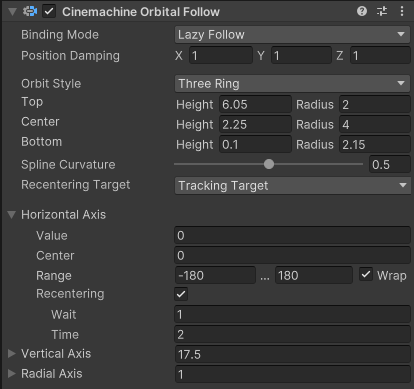
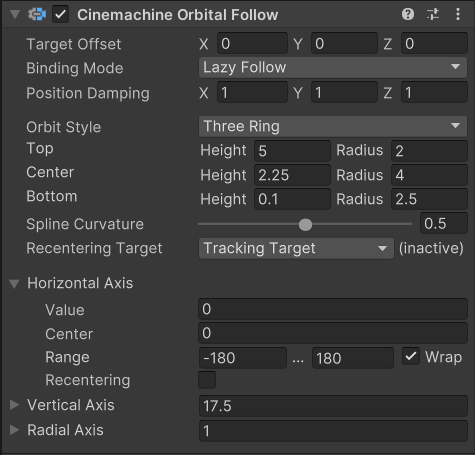
Add orbitalFollow.TargetOffset

diff --git a/com.unity.cinemachine/Editor/Editors/CinemachineOrbitalFollowEditor.cs b/com.unity.cinemachine/Editor/Editors/CinemachineOrbitalFollowEditor.cs
@@ -27,6 +27,7 @@ namespace Unity.Cinemachine.Editor
         {
             var ux = new VisualElement();
             this.AddMissingCmCameraHelpBox(ux, CmPipelineComponentInspectorUtility.RequiredTargets.Tracking);
+            ux.Add(new PropertyField(serializedObject.FindProperty(() => Target.TargetOffset)));
             ux.Add(new PropertyField(serializedObject.FindProperty(() => Target.TrackerSettings)));
             ux.AddSpace();
 
@@ -93,7 +94,7 @@ namespace Unity.Cinemachine.Editor
                         var camPos = orbitalFollow.VcamState.RawPosition;
                         var camTransform = orbitalFollow.VirtualCamera.transform;
                         var camRight = camTransform.right;
-                        var followPos = orbitalFollow.FollowTargetPosition;
+                        var followPos = orbitalFollow.TrackedPoint;
                         var handlePos = followPos + camRight * orbitalFollow.Radius;
                         var rHandleId = GUIUtility.GetControlID(FocusType.Passive);
                         var newHandlePosition = Handles.Slider(rHandleId, handlePos, -camRight,
@@ -133,7 +134,8 @@ namespace Unity.Cinemachine.Editor
                         
                         var draggedRig = CinemachineSceneToolHelpers.ThreeOrbitRigHandle(
                             orbitalFollow.VirtualCamera, orbitalFollow.GetReferenceOrientation(),
-                            new SerializedObject(orbitalFollow).FindProperty(() => orbitalFollow.Orbits));
+                            new SerializedObject(orbitalFollow).FindProperty(() => orbitalFollow.Orbits),
+                            orbitalFollow.TrackedPoint);
                         m_UpdateCache = draggedRig < 0 || draggedRig > 2;
                         orbitalFollow.VerticalAxis.Value = draggedRig switch
                         {
@@ -166,7 +168,7 @@ namespace Unity.Cinemachine.Editor
                 var color = CinemachineCore.IsLive(vcam)
                     ? CinemachineCorePrefs.BoundaryObjectGizmoColour.Value
                     : CinemachineCorePrefs.InactiveGizmoColour.Value;
-                var targetPos = orbital.FollowTargetPosition;
+                var targetPos = orbital.TrackedPoint;
                 var orient = orbital.GetReferenceOrientation();
                 var up = orient * Vector3.up;
                 var rotation = orbital.HorizontalAxis.Value;

diff --git a/com.unity.cinemachine/Runtime/Components/CinemachineOrbitalFollow.cs b/com.unity.cinemachine/Runtime/Components/CinemachineOrbitalFollow.cs
@@ -21,6 +21,13 @@ namespace Unity.Cinemachine
         , CinemachineFreeLookModifier.IModifiablePositionDamping
         , CinemachineFreeLookModifier.IModifiableDistance
     {
+        /// <summary>Offset from the object's center in local space.  
+        /// Use this to fine-tune the orbit when the desired focus of the orbit is not 
+        /// the tracked object's center</summary>
+        [Tooltip("Offset from the target object's center in target-local space. Use this to fine-tune the "
+            + "orbit when the desired focus of the orbit is not the tracked object's center.")]
+        public Vector3 TargetOffset;
+
         /// <summary>Settings to control damping for target tracking.</summary>
         public TrackerSettings TrackerSettings = TrackerSettings.Default;
 
@@ -104,7 +111,10 @@ namespace Unity.Cinemachine
         /// Input axis controller registers here a delegate to call when the camera is reset
         /// </summary>
         Action m_ResetHandler;
-        
+
+        /// <summary>Internal API for inspector</summary>
+        internal Vector3 TrackedPoint { get; private set; }
+
         void OnValidate()
         {
             Radius = Mathf.Max(0, Radius);
@@ -118,6 +128,7 @@ namespace Unity.Cinemachine
 
         void Reset()
         {
+            TargetOffset = Vector3.zero;
             TrackerSettings = TrackerSettings.Default;
             OrbitStyle = OrbitStyles.Sphere;
             Radius = 10;
@@ -243,7 +254,7 @@ namespace Unity.Cinemachine
             m_ResetHandler?.Invoke(); // cancel re-centering
             if (FollowTarget != null)
             {
-                var dir = pos - FollowTargetPosition;
+                var dir = pos - FollowTarget.TransformPoint(TargetOffset);
                 var distance = dir.magnitude;
                 if (distance > 0.001f)
                 {
@@ -413,6 +424,8 @@ namespace Unity.Cinemachine
             pos += m_TargetTracker.GetOffsetForMinimumTargetDistance(
                 this, pos, offset, curState.RawOrientation * Vector3.forward,
                 curState.ReferenceUp, targetPosition);
+            pos += orient * TargetOffset;
+            TrackedPoint = pos;
             curState.RawPosition = pos + offset;
 
             if (deltaTime >= 0 && VirtualCamera.PreviousStateIsValid

diff --git a/com.unity.cinemachine/Editor/Utility/CinemachineSceneTools.cs b/com.unity.cinemachine/Editor/Utility/CinemachineSceneTools.cs
@@ -493,12 +493,12 @@ namespace Unity.Cinemachine.Editor
         /// </summary>
         /// <returns>Index of the rig being edited, or -1 if none</returns>
         public static int ThreeOrbitRigHandle(
-            CinemachineVirtualCameraBase vcam, Quaternion rotationFrame, SerializedProperty orbitSetting)
+            CinemachineVirtualCameraBase vcam, Quaternion rotationFrame, 
+            SerializedProperty orbitSetting, Vector3 orbitCenter)
         {
             Cinemachine3OrbitRig.Settings def = new();
 
             var originalColor = Handles.color;
-            var followPos = vcam.Follow.position;
             var draggedRig = -1;
             var minIndex = 1;
             SerializedProperty[] orbits =
@@ -515,7 +515,7 @@ namespace Unity.Cinemachine.Editor
                 
                 if (OrbitHandles(
                     orbitSetting.serializedObject, orbitHeight, orbitRadius, 
-                    followPos, rotationFrame,
+                    orbitCenter, rotationFrame,
                     out var heightHandleId, out var radiusHandleId))
                 {
                     draggedRig = rigIndex;

diff --git a/com.unity.cinemachine/Editor/Editors/CinemachineFollowEditor.cs b/com.unity.cinemachine/Editor/Editors/CinemachineFollowEditor.cs
@@ -24,8 +24,8 @@ namespace Unity.Cinemachine.Editor
         {
             var ux = new VisualElement();
             this.AddMissingCmCameraHelpBox(ux, CmPipelineComponentInspectorUtility.RequiredTargets.Tracking);
-            ux.Add(new PropertyField(serializedObject.FindProperty(() => Target.TrackerSettings)));
             ux.Add(new PropertyField(serializedObject.FindProperty(() => Target.FollowOffset)));
+            ux.Add(new PropertyField(serializedObject.FindProperty(() => Target.TrackerSettings)));
             return ux;
         }
 

diff --git a/com.unity.cinemachine/Documentation~/CinemachineOrbitalFollow.md b/com.unity.cinemachine/Documentation~/CinemachineOrbitalFollow.md
@@ -16,6 +16,7 @@ If you attach an input controller to the CinemachineCamera, then the player can 
 
 | **Property:** || **Function:** |
 |:---|:---|:---|
+| __Target Offset__ || Offset from the target object's center in target-local space. Use this to fine-tune the orbit position when the desired focus of the orbit is not the tracked object's center. |
 | __[Binding Mode](CinemachineBindingModes.md)__ || The coordinate space to use to interpret the offset from the target. |
 | | _Lock To Target On Assign_ | Makes the orientation of the CinemachineCamera match the local frame of the Tracking target, at the moment when the CinemachineCamera is activated or when the target is assigned. This offset remains constant in world space. The camera doesn't rotate along with the target. |
 | | _Lock To Target With World Up_ | Makes the CinemachineCamera use the local frame of the Tracking target with tilt and roll set to 0. This binding mode ignores all target rotations except yaw. |

diff --git a/com.unity.cinemachine/CHANGELOG.md b/com.unity.cinemachine/CHANGELOG.md
@@ -11,6 +11,7 @@ and this project adheres to [Semantic Versioning](http://semver.org/spec/v2.0.0.
 
 ### Added
 - Added CinemachineVirtualCameraBase.CancelDamping() convenience method to snap camera to its target position.
+- Added CinemachineOrbitalFollow.TargetOffset to reposition orbit center.
 
 ### Changed
 - RuntimeUtility.GetScratchCollider and RuntimeUtility.DestroyScratchCollider are now public, to allow custom extensions to use them.
